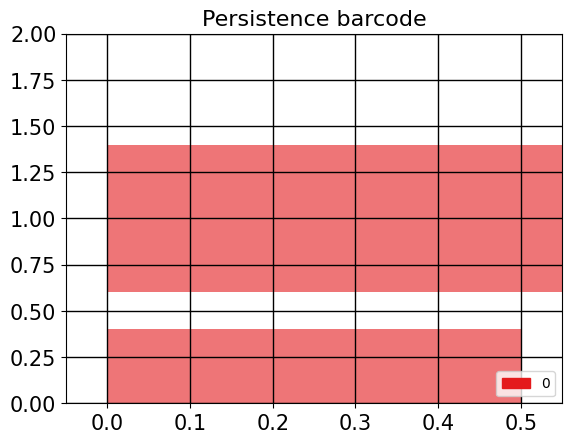
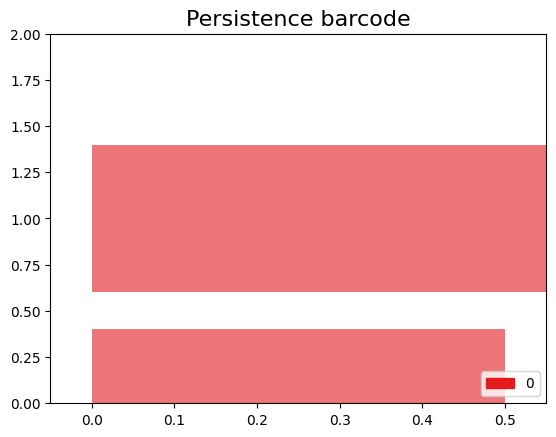
update tda9

Changed region(s): [[0.0, 0.0, 1.0, 0.9817]]

diff --git a/episodes/09-tda-handson.md b/episodes/09-tda-handson.md
@@ -130,23 +130,11 @@ Plot the persistence diagram
 
 ~~~
 gd.plot_persistence_diagram(persistence_diagram,legend=True)
-plt.grid(color = 'black', linestyle = '-', linewidth = 1)
-plt.savefig('persitencediagramCircles.png' , dpi=600, transparent=True)
-plt.xticks(size=15)
-plt.yticks(size=15)
 ~~~
 {: .language-python}
 
 ~~~
-(array([-0.1 ,  0.  ,  0.1 ,  0.2 ,  0.3 ,  0.4 ,  0.5 ,  0.55]),
- [Text(0, -0.1, '-0.100'),
-  Text(0, 0.0, '0.000'),
-  Text(0, 0.1, '0.100'),
-  Text(0, 0.20000000000000004, '0.200'),
-  Text(0, 0.30000000000000004, '0.300'),
-  Text(0, 0.4, '0.400'),
-  Text(0, 0.5000000000000001, '0.500'),
-  Text(0, 0.55, '$+\\infty$')])
+<AxesSubplot:title={'center':'Persistence diagram'}, xlabel='Birth', ylabel='Death'>
 ~~~
 {: .output}
  <a href="../fig/tda_09_diagram_1.png">
@@ -158,24 +146,11 @@ Plot the barcode
 
 ~~~
 gd.plot_persistence_barcode(persistence_diagram,legend=True)
-plt.grid(color = 'black', linestyle = '-', linewidth = 1)
-plt.savefig('persistencebarcodeCircles' , dpi=600, transparent=True)
-plt.xticks(size=15)
-plt.yticks(size=15)
 ~~~
 {: .language-python}
 
 ~~~
-(array([0.  , 0.25, 0.5 , 0.75, 1.  , 1.25, 1.5 , 1.75, 2.  ]),
- [Text(0, 0.0, '0.00'),
-  Text(0, 0.25, '0.25'),
-  Text(0, 0.5, '0.50'),
-  Text(0, 0.75, '0.75'),
-  Text(0, 1.0, '1.00'),
-  Text(0, 1.25, '1.25'),
-  Text(0, 1.5, '1.50'),
-  Text(0, 1.75, '1.75'),
-  Text(0, 2.0, '2.00')])
+<AxesSubplot:title={'center':'Persistence barcode'}>
 ~~~
 {: .output}
  <a href="../fig/tda_09_barcode_1.png">
@@ -192,15 +167,56 @@ plt.yticks(size=15)
 > Perform persistent homology and plot the persistence diagram and barcode.
 > > ## Solution  
 > > 1. Create a SimplexTree with `gd.SimplexTree()`.
+> >  ~~~
+>> st = gd.SimplexTree()  
+>> ~~~
+>> {: .language-python}  
 >> 2. Insert vertices at time 0 using `st.insert()`
->> 3. Insert the remaining simplices by setting the filtration time using `st.insert([0, 1], filtration=0.5)`.
+> >  ~~~
+>> #insert 0-simplex (the vertex), 
+>> st.insert([0])
+>>  st.insert([1])
+>> st.insert([2])
+>>  st.insert([3])
+>>  st.insert([4])
+>> ~~~
+>> {: .language-python}   
+>> 3. Insert the remaining simplices by setting the filtration time using `st.insert([0, 1], filtration=)`.
+> >  ~~~
+>> #insert 1-simplex level filtration 1 
+>> st.insert([0, 2], filtration=1)
+>> st.insert([3, 4], filtration=1)
+>> #insert 1-simplex level filtration 2 
+>> st.insert([0, 1], filtration=2)
+>> #insert 1-simplex level filtration 3 
+>>  st.insert([2, 1], filtration=3)
+>> #insert 1-simplex level filtration 4 
+>> st.insert([2, 1,0], filtration=4)
+>> ~~~
+>> {: .language-python}   
 >> 4. Perform persistent homology using `st.persistence()`.
->> 5. Plot the barcode and persistence diagram.
-> >6. Get this output
+> >  ~~~
+>># Compute the persistence diagram
+>> persistence_diagram = st.persistence() 
+>> ~~~
+>> {: .language-python}  
+>> 5. Plot the persistence diagram.
+> >  ~~~
+>># plot the persistence diagram
+>> gd.plot_persistence_diagram(persistence_diagram,legend=True)
+>> ~~~
+>> {: .language-python}  
+>> 6. Plot the barcode.
+> >  ~~~
+>> gd.plot_persistence_barcode(persistence_diagram,legend=True)
+>> ~~~
+>> {: .language-python}  
+> >6. Get this output  
+>> <a href="../fig/tda_09_diagram_F.png">
+>>   <img src="../fig/tda_09_diagram_F.png" alt="Persistence Diagram" width="50%" height="auto" />
+>> </a>  
 > {: .solution}
-<a href="../fig/tda_09_diagram_F.png">
-  <img src="../fig/tda_09_diagram_F.png" alt="Persistence Diagram" width="50%" height="auto" />
-</a>
+
 {: .challenge}
 
 
